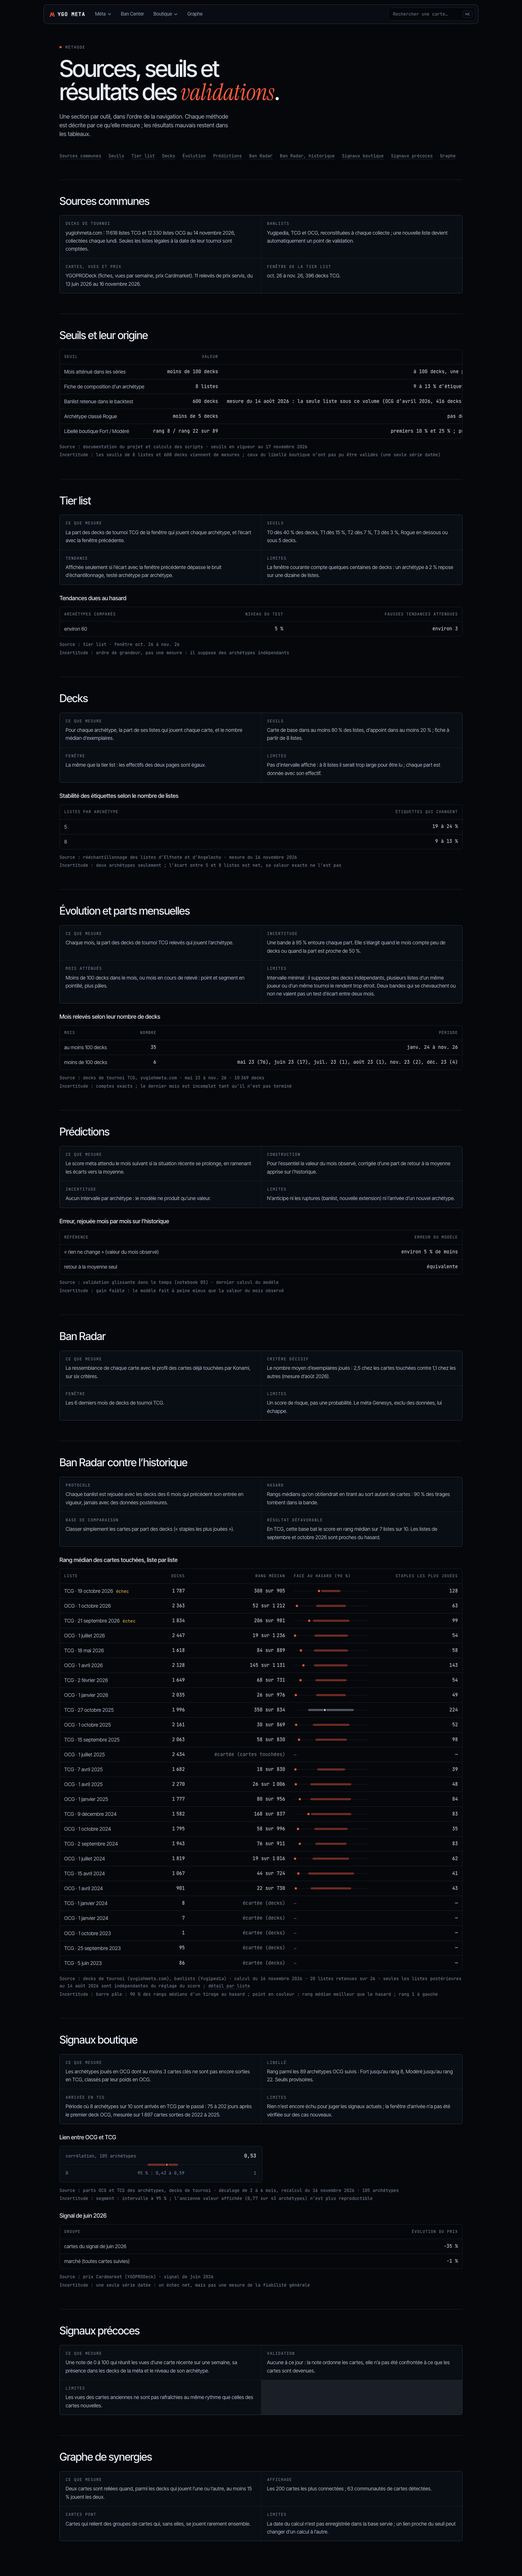
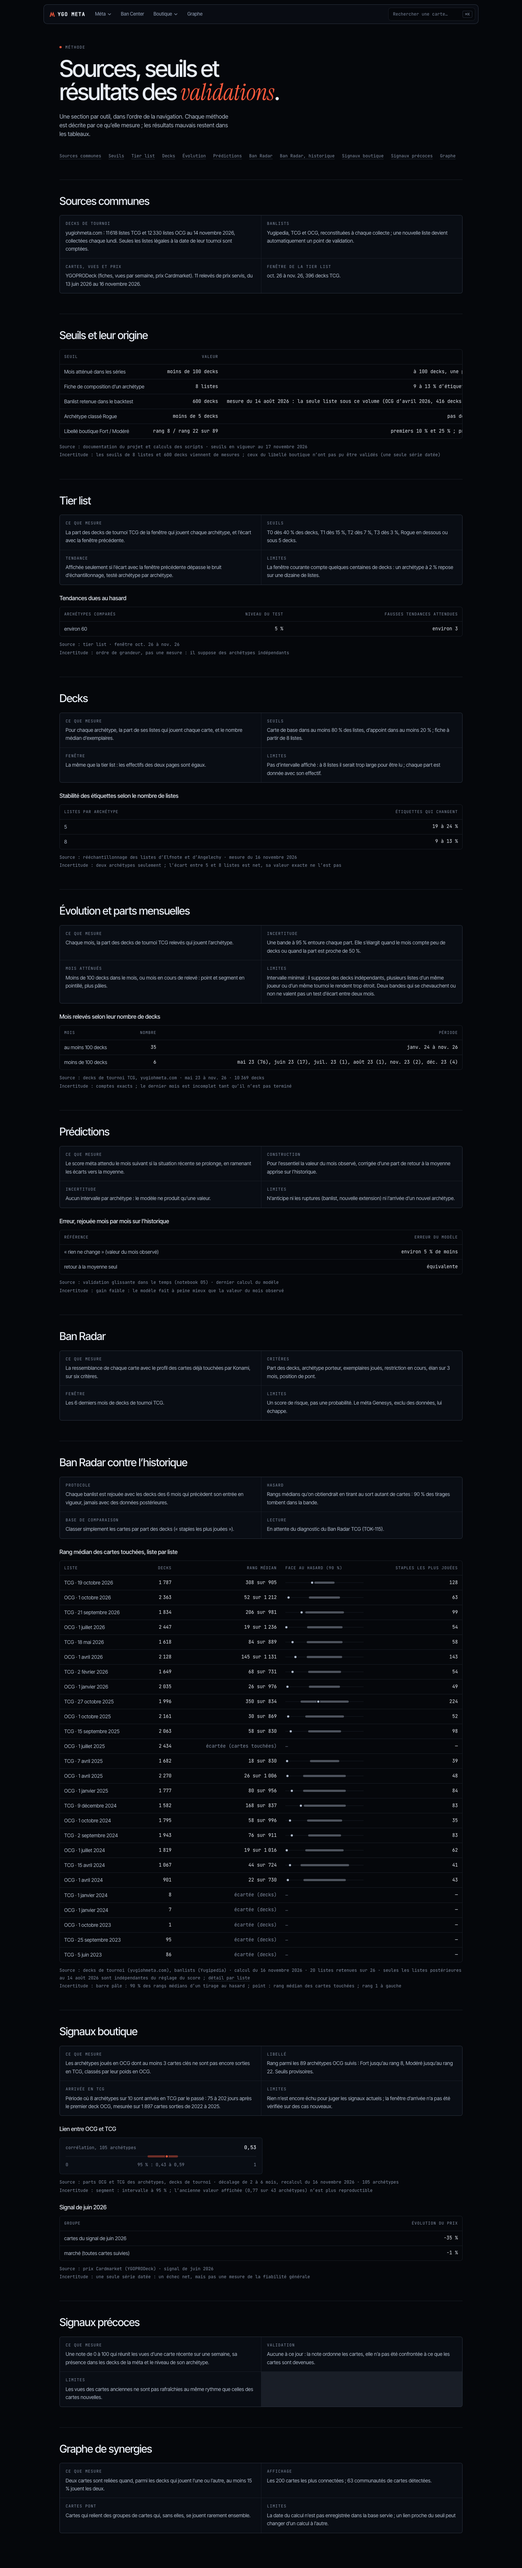
feat(charte): verdict du Ban Radar retiré de l'Historique et de /methode, en attente du diagnostic TOK-115

diff --git a/frontend/src/app/methode/page.tsx b/frontend/src/app/methode/page.tsx
@@ -21,7 +21,7 @@ import type { BanHistoryList } from "@/types";
 export const metadata: Metadata = pageMetadata({
   title: "Méthode",
   description:
-    "Sources, dates de collecte, seuils et résultats des validations de chaque outil, échecs compris : listes TCG de septembre et octobre 2026, signal boutique de juin 2026. Aucune formule.",
+    "Sources, dates de collecte, seuils et résultats des validations de chaque outil, échecs compris. Aucune formule.",
   path: "/methode",
 });
 
@@ -107,10 +107,6 @@ function SimpleTable({ caption, head, rows }: { caption: string; head: string[];
   );
 }
 
-/** Septembre et octobre 2026 en TCG : les deux échecs nommés par la charte. */
-const isRecentFailure = (l: BanHistoryList) =>
-  l.format === "TCG" && (l.effective_date.startsWith("2026-09") || l.effective_date.startsWith("2026-10"));
-
 function BanTable({ lists }: { lists: BanHistoryList[] }) {
   return (
     <div className="overflow-x-auto rounded-[6px] border border-line">
@@ -130,12 +126,10 @@ function BanTable({ lists }: { lists: BanHistoryList[] }) {
         <TableBody>
           {lists.map((l) => {
             const ranked = l.retained && l.median_rank != null && l.n_cards != null;
-            const beat = ranked && l.random_low != null && l.median_rank! < l.random_low;
             return (
               <TableRow key={`${l.format}-${l.effective_date}`}>
                 <TableCell className="text-[14px] whitespace-nowrap text-soft">
                   {l.format} · {fmtDate(l.effective_date)}
-                  {isRecentFailure(l) && ranked && <span className="ml-2 font-mono text-[12px] text-warn">échec</span>}
                 </TableCell>
                 <TableCell className={NUM}>{fmtNum(l.n_decks)}</TableCell>
                 <TableCell className={NUM}>
@@ -151,7 +145,7 @@ function BanTable({ lists }: { lists: BanHistoryList[] }) {
                       hi={l.random_high}
                       min={1}
                       max={l.n_cards!}
-                      color={beat ? "var(--cat-1)" : "var(--soft)"}
+                      color="var(--soft)"
                       label={`Rang médian ${fmtNum(l.median_rank!)} ; hasard de ${fmtNum(l.random_low)} à ${fmtNum(l.random_high)} sur ${fmtNum(l.n_cards!)}`}
                     />
                   ) : (
@@ -183,10 +177,6 @@ export default async function MethodePage() {
   const firstFull = months.find(([, n]) => n >= WEAK_MONTH_DECKS)?.[0];
   const rule = boutique.label_rule;
   const retained = banHistory.lists.filter((l) => l.retained);
-  const tcgBaselineWins = retained.filter(
-    (l) => l.format === "TCG" && l.baseline_median_rank != null && l.median_rank != null && l.baseline_median_rank < l.median_rank
-  ).length;
-  const tcgRetained = retained.filter((l) => l.format === "TCG").length;
   const [ciLow, ciHigh] = SITE_FACTS.ocgTcgCorrelationCi;
 
   return (
@@ -372,7 +362,7 @@ export default async function MethodePage() {
         <Facts
           items={[
             { term: "Ce que mesure", text: "La ressemblance de chaque carte avec le profil des cartes déjà touchées par Konami, sur six critères." },
-            { term: "Critère décisif", text: "Le nombre moyen d’exemplaires joués : 2,5 chez les cartes touchées contre 1,1 chez les autres (mesure d’août 2026)." },
+            { term: "Critères", text: "Part des decks, archétype porteur, exemplaires joués, restriction en cours, élan sur 3 mois, position de pont." },
             { term: "Fenêtre", text: "Les 6 derniers mois de decks de tournoi TCG." },
             { term: "Limites", text: "Un score de risque, pas une probabilité. Le méta Genesys, exclu des données, lui échappe." },
           ]}
@@ -385,10 +375,7 @@ export default async function MethodePage() {
             { term: "Protocole", text: "Chaque banlist est rejouée avec les decks des 6 mois qui précèdent son entrée en vigueur, jamais avec des données postérieures." },
             { term: "Hasard", text: "Rangs médians qu’on obtiendrait en tirant au sort autant de cartes : 90 % des tirages tombent dans la bande." },
             { term: "Base de comparaison", text: "Classer simplement les cartes par part des decks (« staples les plus jouées »)." },
-            {
-              term: "Résultat défavorable",
-              text: `En TCG, cette base bat le score en rang médian sur ${fmtNum(tcgBaselineWins)} listes sur ${fmtNum(tcgRetained)}. Les listes de septembre et octobre 2026 sont proches du hasard.`,
-            },
+            { term: "Lecture", text: "En attente du diagnostic du Ban Radar TCG (TOK-115)." },
           ]}
         />
         <Validation title="Rang médian des cartes touchées, liste par liste">
@@ -397,7 +384,7 @@ export default async function MethodePage() {
             source="decks de tournoi (yugiohmeta.com), banlists (Yugipedia)"
             date={`calcul du ${fmtDate(banHistory.computed_at)}`}
             sample={`${fmtNum(retained.length)} listes retenues sur ${fmtNum(banHistory.lists.length)}`}
-            uncertainty="barre pâle : 90 % des rangs médians d’un tirage au hasard ; point en couleur : rang médian meilleur que le hasard ; rang 1 à gauche"
+            uncertainty="barre pâle : 90 % des rangs médians d’un tirage au hasard ; point : rang médian des cartes touchées ; rang 1 à gauche"
           >
             seules les listes postérieures au 14 août 2026 sont indépendantes du réglage du score ;{" "}
             <Link href="/ban?tab=historique" className="underline decoration-line-2 underline-offset-4 hover:text-text">

diff --git a/frontend/src/app/ban/BanHistoryView.tsx b/frontend/src/app/ban/BanHistoryView.tsx
@@ -4,7 +4,6 @@ import { CardArt } from "@/components/card-art";
 import { PillLink } from "@/components/ds/control";
 import { Em } from "@/components/ds/em";
 import { DataFooter, PageHero } from "@/components/ds/page";
-import { MethodNote } from "@/components/ds/explain";
 import { banStatusLabel } from "@/components/ds/tags";
 import type { BanHistoryCard, BanHistoryList } from "@/types";
 
@@ -499,7 +498,7 @@ export async function BanHistoryView({ selected, tabs }: { selected: string | un
         source={SOURCE}
         date={`calcul du ${fmtDate(computed_at)}, listes du ${fmtDate(firstDate)} au ${fmtDate(lastDate)}`}
         sample={`${fmtNum(retained.length)} listes retenues ; le seuil de ${fmtNum(min_decks)} decks et ${fmtNum(min_hits)} cartes touchées en écarte ${fmtNum(lists.length - retained.length)}`}
-        uncertainty="chaque liste est comparée au hasard (90 % des tirages au sort) ; avec 10 listes par format, un bilan reste fragile"
+        uncertainty="chaque liste est comparée aux rangs que donneraient 90 % des tirages au sort ; lecture en attente du diagnostic TOK-115"
       />
 
       {(["TCG", "OCG"] as const).map((format) => (
@@ -516,14 +515,10 @@ export async function BanHistoryView({ selected, tabs }: { selected: string | un
         source={SOURCE}
         date={`classements reconstitués la veille de chaque liste, calcul du ${fmtDate(computed_at)}`}
         sample={`${fmtNum(retained.length)} listes, 700 à 1 250 cartes classées par liste`}
-        uncertainty="bande grise : rangs médians que donneraient 90 % des tirages au sort ; un point dans la bande ne se distingue pas du hasard"
+        uncertainty="bande grise : rangs médians que donneraient 90 % des tirages au sort"
       >
         position de gauche à droite : du premier au dernier du classement
       </DataFooter>
-      <MethodNote anchor="ban-historique">
-        <p>Chaque banlist est rejouée avec les decks des 6 mois qui précèdent son entrée en vigueur, jamais avec des données postérieures.</p>
-        <p>Une liste n’est retenue qu’au-delà de {fmtNum(min_decks)} decks et {fmtNum(min_hits)} cartes touchées : en dessous, le classement ne vaut pas mieux que le hasard.</p>
-      </MethodNote>
       <DataTable lists={lists} topN={top_n} />
 
       <section aria-labelledby="detail-titre" className="mt-14">

diff --git a/context.md b/context.md
@@ -368,6 +368,8 @@ sur `/evolution` (qui trace maintenant la part des decks), la page d'archétype 
   par convention (pas de date système, captures déterministes).
 - `GET /meta/evolution` sert `decks` (k) en plus ; une réponse figée sans lui se rabat sur `share × n`.
 - `next build` refuse un `node_modules` en lien symbolique hors du projet : `cp -cR` pour construire un autre commit.
+- **Verdict du Ban Radar non écrit** (consigne de Thomas, 17/11) : onglet Historique et sections Ban Radar de `/methode` sans
+  phrase de conclusion sur la qualité du score ; emplacement « lecture en attente du diagnostic TOK-115 » (lot 15a).
 → détail complet : `docs/journal/explication-graphique-lot15.md`
 ### 🖼 Images de cartes hébergées (TOK-92, lot 10, 2026-11-17, branche `claude/lot10-tok-92-images-5c0cd5`, non fusionnée)
 
